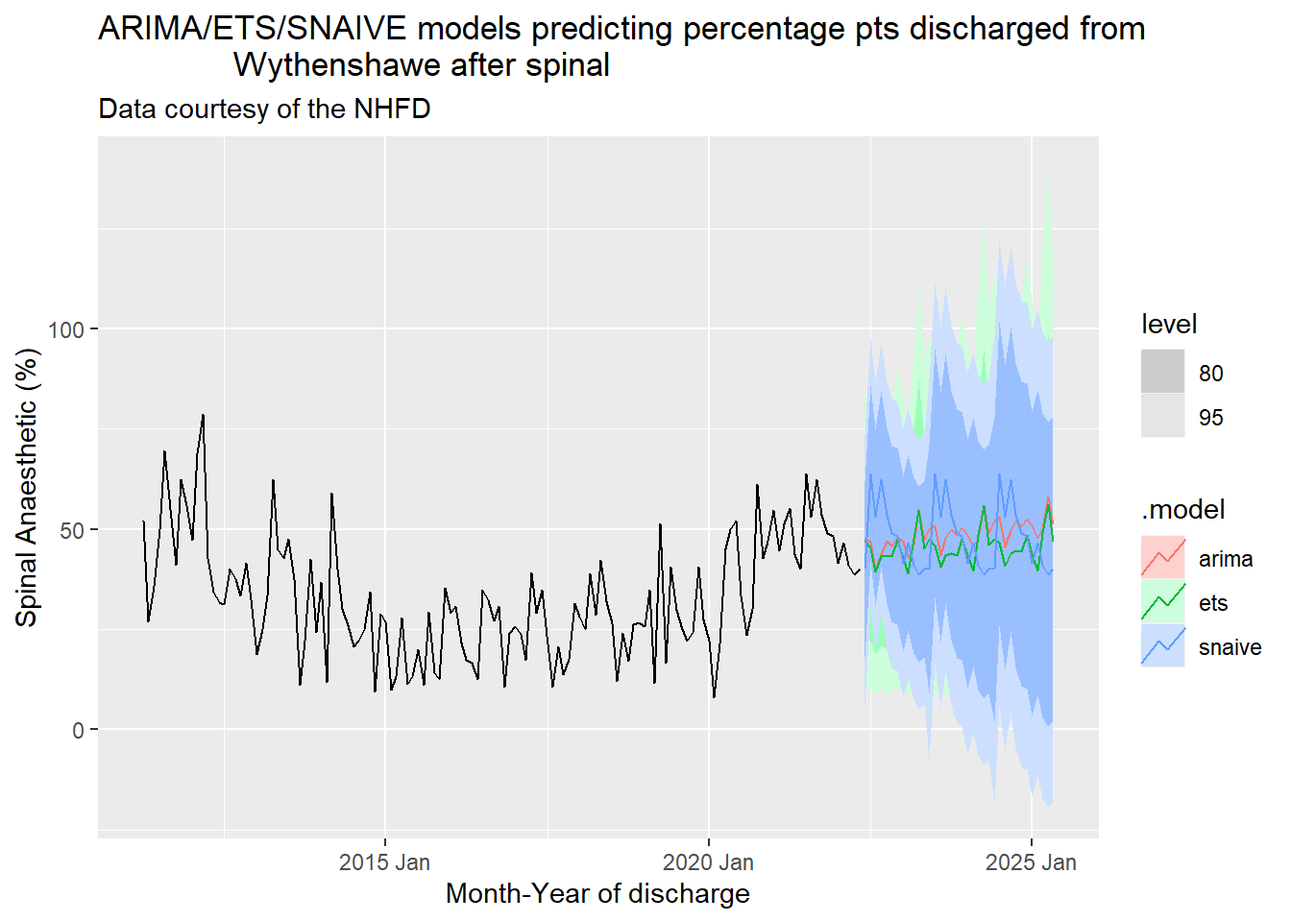
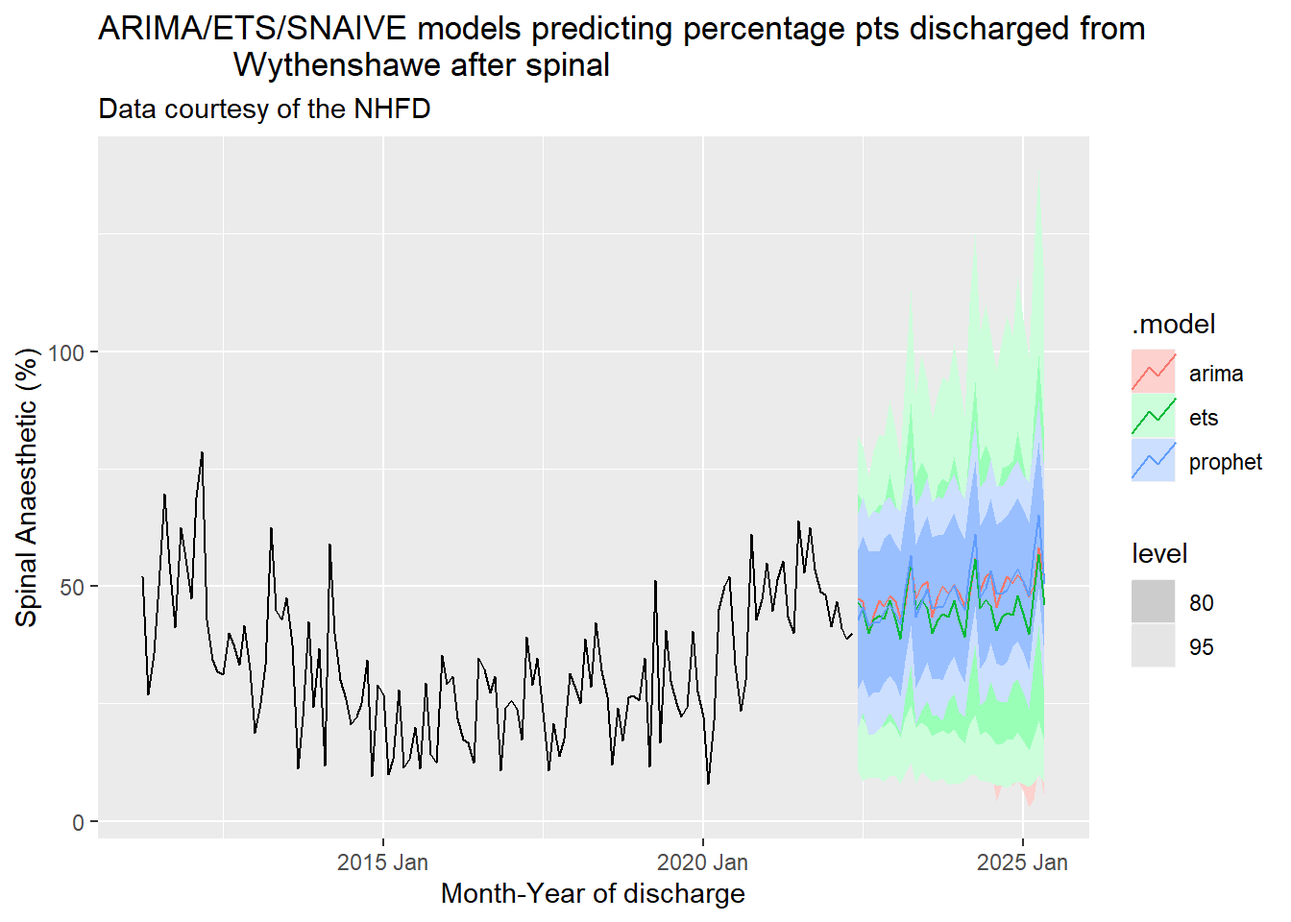
Removed seasonally naive (SNAIVE) model - because redundant - much better graphs now

diff --git a/docs/sap.html b/docs/sap.html
@@ -272,57 +272,58 @@ code span.wa { color: #60a0b0; font-weight: bold; font-style: italic; } /* Warni
 <span id="cb1-8"><a href="#cb1-8" aria-hidden="true" tabindex="-1"></a><span class="fu">library</span>(urca)</span>
 <span id="cb1-9"><a href="#cb1-9" aria-hidden="true" tabindex="-1"></a><span class="fu">library</span>(downloadthis)</span>
 <span id="cb1-10"><a href="#cb1-10" aria-hidden="true" tabindex="-1"></a><span class="fu">library</span>(fpp3)</span>
-<span id="cb1-11"><a href="#cb1-11" aria-hidden="true" tabindex="-1"></a>los <span class="ot">&lt;-</span> <span class="fu">read.csv</span>(<span class="st">"./NHFD_Data/los_apr_22.csv"</span>)</span>
-<span id="cb1-12"><a href="#cb1-12" aria-hidden="true" tabindex="-1"></a><span class="fu">names</span>(los) <span class="ot">&lt;-</span><span class="fu">c</span>(<span class="st">"my"</span>, <span class="st">"ptnum"</span>, </span>
-<span id="cb1-13"><a href="#cb1-13" aria-hidden="true" tabindex="-1"></a>               <span class="st">"acutelos"</span>, </span>
-<span id="cb1-14"><a href="#cb1-14" aria-hidden="true" tabindex="-1"></a>               <span class="st">"acutelosannual"</span>, </span>
-<span id="cb1-15"><a href="#cb1-15" aria-hidden="true" tabindex="-1"></a>               <span class="st">"trustlos"</span>, </span>
-<span id="cb1-16"><a href="#cb1-16" aria-hidden="true" tabindex="-1"></a>               <span class="st">"trustlosannual"</span> )</span>
-<span id="cb1-17"><a href="#cb1-17" aria-hidden="true" tabindex="-1"></a>vol <span class="ot">&lt;-</span> los <span class="sc">|&gt;</span> <span class="fu">select</span>(my, ptnum)</span>
-<span id="cb1-18"><a href="#cb1-18" aria-hidden="true" tabindex="-1"></a>vol<span class="sc">$</span>my <span class="ot">&lt;-</span> lubridate<span class="sc">::</span><span class="fu">my</span>(vol<span class="sc">$</span>my) </span>
-<span id="cb1-19"><a href="#cb1-19" aria-hidden="true" tabindex="-1"></a>ts_vol <span class="ot">&lt;-</span> vol <span class="sc">%&gt;%</span> </span>
-<span id="cb1-20"><a href="#cb1-20" aria-hidden="true" tabindex="-1"></a>  <span class="fu">mutate</span>(<span class="at">my =</span> tsibble<span class="sc">::</span><span class="fu">yearmonth</span>(my)) <span class="sc">%&gt;%</span> </span>
-<span id="cb1-21"><a href="#cb1-21" aria-hidden="true" tabindex="-1"></a>  <span class="fu">tsibble</span>()</span>
-<span id="cb1-22"><a href="#cb1-22" aria-hidden="true" tabindex="-1"></a></span>
-<span id="cb1-23"><a href="#cb1-23" aria-hidden="true" tabindex="-1"></a>p <span class="ot">&lt;-</span> vol <span class="sc">|&gt;</span> <span class="fu">ggplot</span>() <span class="sc">+</span> </span>
-<span id="cb1-24"><a href="#cb1-24" aria-hidden="true" tabindex="-1"></a>  <span class="fu">geom_line</span>(<span class="fu">aes</span>(<span class="at">x=</span>my, <span class="at">y=</span>ptnum)) <span class="sc">+</span></span>
-<span id="cb1-25"><a href="#cb1-25" aria-hidden="true" tabindex="-1"></a>  <span class="fu">scale_x_date</span>(<span class="at">date_labels =</span> <span class="st">"%m-%Y"</span>) <span class="sc">+</span></span>
-<span id="cb1-26"><a href="#cb1-26" aria-hidden="true" tabindex="-1"></a>  <span class="fu">labs</span>(<span class="at">x=</span><span class="st">"Month-Year of discharge"</span>, </span>
-<span id="cb1-27"><a href="#cb1-27" aria-hidden="true" tabindex="-1"></a>  <span class="at">y=</span><span class="st">"Number of patients"</span>,</span>
-<span id="cb1-28"><a href="#cb1-28" aria-hidden="true" tabindex="-1"></a>  <span class="at">title=</span><span class="st">"Patients presenting to Wythenshawe with #NOF"</span>, </span>
-<span id="cb1-29"><a href="#cb1-29" aria-hidden="true" tabindex="-1"></a>  <span class="at">subtitle =</span><span class="st">"Data courtesy of the NFHD"</span>)</span>
-<span id="cb1-30"><a href="#cb1-30" aria-hidden="true" tabindex="-1"></a>p</span>
-<span id="cb1-31"><a href="#cb1-31" aria-hidden="true" tabindex="-1"></a></span>
-<span id="cb1-32"><a href="#cb1-32" aria-hidden="true" tabindex="-1"></a>fable_1 <span class="ot">&lt;-</span> ts_vol <span class="sc">%&gt;%</span> </span>
-<span id="cb1-33"><a href="#cb1-33" aria-hidden="true" tabindex="-1"></a>  <span class="fu">model</span>(  </span>
-<span id="cb1-34"><a href="#cb1-34" aria-hidden="true" tabindex="-1"></a>    <span class="at">ets =</span> <span class="fu">ETS</span>(ptnum <span class="sc">~</span> <span class="fu">error</span>(<span class="st">"M"</span>) <span class="sc">+</span> <span class="fu">trend</span>(<span class="st">"M"</span>) <span class="sc">+</span> <span class="fu">season</span>(<span class="st">"M"</span>)),</span>
-<span id="cb1-35"><a href="#cb1-35" aria-hidden="true" tabindex="-1"></a>    <span class="at">arima =</span> <span class="fu">ARIMA</span>(ptnum <span class="sc">~</span> <span class="dv">0</span> <span class="sc">+</span> <span class="fu">pdq</span>(<span class="dv">1</span>, <span class="dv">1</span>, <span class="dv">1</span>) <span class="sc">+</span> <span class="fu">PDQ</span>(<span class="dv">1</span>, <span class="dv">1</span>, <span class="dv">1</span>)),</span>
-<span id="cb1-36"><a href="#cb1-36" aria-hidden="true" tabindex="-1"></a>    <span class="at">snaive =</span> <span class="fu">SNAIVE</span>(ptnum)</span>
-<span id="cb1-37"><a href="#cb1-37" aria-hidden="true" tabindex="-1"></a>  )</span>
-<span id="cb1-38"><a href="#cb1-38" aria-hidden="true" tabindex="-1"></a>forecast_1 <span class="ot">&lt;-</span> <span class="fu">forecast</span>(fable_1, </span>
-<span id="cb1-39"><a href="#cb1-39" aria-hidden="true" tabindex="-1"></a>                       <span class="at">h =</span> <span class="st">"3 years"</span>) </span>
-<span id="cb1-40"><a href="#cb1-40" aria-hidden="true" tabindex="-1"></a><span class="fu">autoplot</span>(forecast_1, </span>
-<span id="cb1-41"><a href="#cb1-41" aria-hidden="true" tabindex="-1"></a>         <span class="at">data=</span>vol, </span>
-<span id="cb1-42"><a href="#cb1-42" aria-hidden="true" tabindex="-1"></a>         <span class="at">level =</span> <span class="fu">c</span>(<span class="dv">80</span>, <span class="dv">95</span>)) <span class="sc">+</span></span>
-<span id="cb1-43"><a href="#cb1-43" aria-hidden="true" tabindex="-1"></a>  <span class="fu">labs</span>(<span class="at">x=</span><span class="st">"Month-Year of discharge"</span>,</span>
-<span id="cb1-44"><a href="#cb1-44" aria-hidden="true" tabindex="-1"></a>  <span class="at">title=</span><span class="st">"ARIMA/ETS/SNAIVE models predicting pts presenting to  </span></span>
-<span id="cb1-45"><a href="#cb1-45" aria-hidden="true" tabindex="-1"></a><span class="st">  Wythenshawe with #NOF"</span>,</span>
-<span id="cb1-46"><a href="#cb1-46" aria-hidden="true" tabindex="-1"></a>  <span class="at">subtitle =</span> <span class="st">"Data courtesy of the NHFD"</span>,</span>
-<span id="cb1-47"><a href="#cb1-47" aria-hidden="true" tabindex="-1"></a>  <span class="at">y=</span><span class="st">"Number of patients"</span>)</span>
-<span id="cb1-48"><a href="#cb1-48" aria-hidden="true" tabindex="-1"></a></span>
-<span id="cb1-49"><a href="#cb1-49" aria-hidden="true" tabindex="-1"></a>arima_means <span class="ot">&lt;-</span> forecast_1 <span class="sc">%&gt;%</span></span>
-<span id="cb1-50"><a href="#cb1-50" aria-hidden="true" tabindex="-1"></a>  <span class="fu">filter</span>(.model<span class="sc">==</span><span class="st">'arima'</span>)</span>
-<span id="cb1-51"><a href="#cb1-51" aria-hidden="true" tabindex="-1"></a>arima_mean <span class="ot">&lt;-</span> <span class="fu">mean</span>(arima_means<span class="sc">$</span>.mean)</span>
-<span id="cb1-52"><a href="#cb1-52" aria-hidden="true" tabindex="-1"></a>ets_means <span class="ot">&lt;-</span> forecast_1 <span class="sc">%&gt;%</span> </span>
-<span id="cb1-53"><a href="#cb1-53" aria-hidden="true" tabindex="-1"></a>  <span class="fu">filter</span>(.model<span class="sc">==</span><span class="st">'ets'</span>)</span>
-<span id="cb1-54"><a href="#cb1-54" aria-hidden="true" tabindex="-1"></a>ets_mean <span class="ot">&lt;-</span> <span class="fu">mean</span>(ets_means<span class="sc">$</span>.mean)</span>
-<span id="cb1-55"><a href="#cb1-55" aria-hidden="true" tabindex="-1"></a>snaive_means <span class="ot">&lt;-</span> forecast_1 <span class="sc">%&gt;%</span> </span>
-<span id="cb1-56"><a href="#cb1-56" aria-hidden="true" tabindex="-1"></a>  <span class="fu">filter</span>(.model<span class="sc">==</span><span class="st">'snaive'</span>)</span>
-<span id="cb1-57"><a href="#cb1-57" aria-hidden="true" tabindex="-1"></a>snaive_mean <span class="ot">&lt;-</span> <span class="fu">mean</span>(snaive_means<span class="sc">$</span>.mean)</span>
-<span id="cb1-58"><a href="#cb1-58" aria-hidden="true" tabindex="-1"></a>print_mean <span class="ot">&lt;-</span> <span class="fu">mean</span>(<span class="fu">c</span>(snaive_mean, </span>
-<span id="cb1-59"><a href="#cb1-59" aria-hidden="true" tabindex="-1"></a>                     ets_mean, </span>
-<span id="cb1-60"><a href="#cb1-60" aria-hidden="true" tabindex="-1"></a>                     arima_mean)) <span class="sc">|&gt;</span> </span>
-<span id="cb1-61"><a href="#cb1-61" aria-hidden="true" tabindex="-1"></a>  <span class="fu">round</span>(<span class="dv">2</span>)</span></code><button title="Copy to Clipboard" class="code-copy-button"><i class="bi"></i></button></pre></div>
+<span id="cb1-11"><a href="#cb1-11" aria-hidden="true" tabindex="-1"></a><span class="fu">library</span>(fable.prophet)</span>
+<span id="cb1-12"><a href="#cb1-12" aria-hidden="true" tabindex="-1"></a>los <span class="ot">&lt;-</span> <span class="fu">read.csv</span>(<span class="st">"./NHFD_Data/los_apr_22.csv"</span>)</span>
+<span id="cb1-13"><a href="#cb1-13" aria-hidden="true" tabindex="-1"></a><span class="fu">names</span>(los) <span class="ot">&lt;-</span><span class="fu">c</span>(<span class="st">"my"</span>, <span class="st">"ptnum"</span>, </span>
+<span id="cb1-14"><a href="#cb1-14" aria-hidden="true" tabindex="-1"></a>               <span class="st">"acutelos"</span>, </span>
+<span id="cb1-15"><a href="#cb1-15" aria-hidden="true" tabindex="-1"></a>               <span class="st">"acutelosannual"</span>, </span>
+<span id="cb1-16"><a href="#cb1-16" aria-hidden="true" tabindex="-1"></a>               <span class="st">"trustlos"</span>, </span>
+<span id="cb1-17"><a href="#cb1-17" aria-hidden="true" tabindex="-1"></a>               <span class="st">"trustlosannual"</span> )</span>
+<span id="cb1-18"><a href="#cb1-18" aria-hidden="true" tabindex="-1"></a>vol <span class="ot">&lt;-</span> los <span class="sc">|&gt;</span> <span class="fu">select</span>(my, ptnum)</span>
+<span id="cb1-19"><a href="#cb1-19" aria-hidden="true" tabindex="-1"></a>vol<span class="sc">$</span>my <span class="ot">&lt;-</span> lubridate<span class="sc">::</span><span class="fu">my</span>(vol<span class="sc">$</span>my) </span>
+<span id="cb1-20"><a href="#cb1-20" aria-hidden="true" tabindex="-1"></a>ts_vol <span class="ot">&lt;-</span> vol <span class="sc">%&gt;%</span> </span>
+<span id="cb1-21"><a href="#cb1-21" aria-hidden="true" tabindex="-1"></a>  <span class="fu">mutate</span>(<span class="at">my =</span> tsibble<span class="sc">::</span><span class="fu">yearmonth</span>(my)) <span class="sc">%&gt;%</span> </span>
+<span id="cb1-22"><a href="#cb1-22" aria-hidden="true" tabindex="-1"></a>  <span class="fu">tsibble</span>()</span>
+<span id="cb1-23"><a href="#cb1-23" aria-hidden="true" tabindex="-1"></a></span>
+<span id="cb1-24"><a href="#cb1-24" aria-hidden="true" tabindex="-1"></a>p <span class="ot">&lt;-</span> vol <span class="sc">|&gt;</span> <span class="fu">ggplot</span>() <span class="sc">+</span> </span>
+<span id="cb1-25"><a href="#cb1-25" aria-hidden="true" tabindex="-1"></a>  <span class="fu">geom_line</span>(<span class="fu">aes</span>(<span class="at">x=</span>my, <span class="at">y=</span>ptnum)) <span class="sc">+</span></span>
+<span id="cb1-26"><a href="#cb1-26" aria-hidden="true" tabindex="-1"></a>  <span class="fu">scale_x_date</span>(<span class="at">date_labels =</span> <span class="st">"%m-%Y"</span>) <span class="sc">+</span></span>
+<span id="cb1-27"><a href="#cb1-27" aria-hidden="true" tabindex="-1"></a>  <span class="fu">labs</span>(<span class="at">x=</span><span class="st">"Month-Year of discharge"</span>, </span>
+<span id="cb1-28"><a href="#cb1-28" aria-hidden="true" tabindex="-1"></a>  <span class="at">y=</span><span class="st">"Number of patients"</span>,</span>
+<span id="cb1-29"><a href="#cb1-29" aria-hidden="true" tabindex="-1"></a>  <span class="at">title=</span><span class="st">"Patients presenting to Wythenshawe with #NOF"</span>, </span>
+<span id="cb1-30"><a href="#cb1-30" aria-hidden="true" tabindex="-1"></a>  <span class="at">subtitle =</span><span class="st">"Data courtesy of the NFHD"</span>)</span>
+<span id="cb1-31"><a href="#cb1-31" aria-hidden="true" tabindex="-1"></a>p</span>
+<span id="cb1-32"><a href="#cb1-32" aria-hidden="true" tabindex="-1"></a></span>
+<span id="cb1-33"><a href="#cb1-33" aria-hidden="true" tabindex="-1"></a>fable_1 <span class="ot">&lt;-</span> ts_vol <span class="sc">%&gt;%</span> </span>
+<span id="cb1-34"><a href="#cb1-34" aria-hidden="true" tabindex="-1"></a>  <span class="fu">model</span>(  </span>
+<span id="cb1-35"><a href="#cb1-35" aria-hidden="true" tabindex="-1"></a>    <span class="at">ets =</span> <span class="fu">ETS</span>(ptnum <span class="sc">~</span> <span class="fu">error</span>(<span class="st">"M"</span>) <span class="sc">+</span> <span class="fu">trend</span>(<span class="st">"M"</span>) <span class="sc">+</span> <span class="fu">season</span>(<span class="st">"M"</span>)),</span>
+<span id="cb1-36"><a href="#cb1-36" aria-hidden="true" tabindex="-1"></a>    <span class="at">arima =</span> <span class="fu">ARIMA</span>(ptnum <span class="sc">~</span> <span class="dv">0</span> <span class="sc">+</span> <span class="fu">pdq</span>(<span class="dv">1</span>, <span class="dv">1</span>, <span class="dv">1</span>) <span class="sc">+</span> <span class="fu">PDQ</span>(<span class="dv">1</span>, <span class="dv">1</span>, <span class="dv">1</span>)),</span>
+<span id="cb1-37"><a href="#cb1-37" aria-hidden="true" tabindex="-1"></a>    <span class="at">prophet =</span> <span class="fu">prophet</span>(ptnum <span class="sc">~</span> <span class="fu">growth</span>(<span class="st">"linear"</span>) <span class="sc">+</span> <span class="fu">season</span>(<span class="st">"year"</span>, <span class="at">type =</span> <span class="st">"multiplicative"</span>))</span>
+<span id="cb1-38"><a href="#cb1-38" aria-hidden="true" tabindex="-1"></a>  )</span>
+<span id="cb1-39"><a href="#cb1-39" aria-hidden="true" tabindex="-1"></a>forecast_1 <span class="ot">&lt;-</span> <span class="fu">forecast</span>(fable_1, </span>
+<span id="cb1-40"><a href="#cb1-40" aria-hidden="true" tabindex="-1"></a>                       <span class="at">h =</span> <span class="st">"3 years"</span>) </span>
+<span id="cb1-41"><a href="#cb1-41" aria-hidden="true" tabindex="-1"></a><span class="fu">autoplot</span>(forecast_1, </span>
+<span id="cb1-42"><a href="#cb1-42" aria-hidden="true" tabindex="-1"></a>         <span class="at">data=</span>vol, </span>
+<span id="cb1-43"><a href="#cb1-43" aria-hidden="true" tabindex="-1"></a>         <span class="at">level =</span> <span class="fu">c</span>(<span class="dv">80</span>, <span class="dv">95</span>)) <span class="sc">+</span></span>
+<span id="cb1-44"><a href="#cb1-44" aria-hidden="true" tabindex="-1"></a>  <span class="fu">labs</span>(<span class="at">x=</span><span class="st">"Month-Year of discharge"</span>,</span>
+<span id="cb1-45"><a href="#cb1-45" aria-hidden="true" tabindex="-1"></a>  <span class="at">title=</span><span class="st">"ARIMA/ETS/SNAIVE models predicting pts presenting to  </span></span>
+<span id="cb1-46"><a href="#cb1-46" aria-hidden="true" tabindex="-1"></a><span class="st">  Wythenshawe with #NOF"</span>,</span>
+<span id="cb1-47"><a href="#cb1-47" aria-hidden="true" tabindex="-1"></a>  <span class="at">subtitle =</span> <span class="st">"Data courtesy of the NHFD"</span>,</span>
+<span id="cb1-48"><a href="#cb1-48" aria-hidden="true" tabindex="-1"></a>  <span class="at">y=</span><span class="st">"Number of patients"</span>)</span>
+<span id="cb1-49"><a href="#cb1-49" aria-hidden="true" tabindex="-1"></a></span>
+<span id="cb1-50"><a href="#cb1-50" aria-hidden="true" tabindex="-1"></a>arima_means <span class="ot">&lt;-</span> forecast_1 <span class="sc">%&gt;%</span></span>
+<span id="cb1-51"><a href="#cb1-51" aria-hidden="true" tabindex="-1"></a>  <span class="fu">filter</span>(.model<span class="sc">==</span><span class="st">'arima'</span>)</span>
+<span id="cb1-52"><a href="#cb1-52" aria-hidden="true" tabindex="-1"></a>arima_mean <span class="ot">&lt;-</span> <span class="fu">mean</span>(arima_means<span class="sc">$</span>.mean)</span>
+<span id="cb1-53"><a href="#cb1-53" aria-hidden="true" tabindex="-1"></a>ets_means <span class="ot">&lt;-</span> forecast_1 <span class="sc">%&gt;%</span> </span>
+<span id="cb1-54"><a href="#cb1-54" aria-hidden="true" tabindex="-1"></a>  <span class="fu">filter</span>(.model<span class="sc">==</span><span class="st">'ets'</span>)</span>
+<span id="cb1-55"><a href="#cb1-55" aria-hidden="true" tabindex="-1"></a>ets_mean <span class="ot">&lt;-</span> <span class="fu">mean</span>(ets_means<span class="sc">$</span>.mean)</span>
+<span id="cb1-56"><a href="#cb1-56" aria-hidden="true" tabindex="-1"></a>prophet_means <span class="ot">&lt;-</span> forecast_1 <span class="sc">%&gt;%</span> </span>
+<span id="cb1-57"><a href="#cb1-57" aria-hidden="true" tabindex="-1"></a>  <span class="fu">filter</span>(.model<span class="sc">==</span><span class="st">'prophet'</span>)</span>
+<span id="cb1-58"><a href="#cb1-58" aria-hidden="true" tabindex="-1"></a>prophet_mean <span class="ot">&lt;-</span> <span class="fu">mean</span>(prophet_means<span class="sc">$</span>.mean)</span>
+<span id="cb1-59"><a href="#cb1-59" aria-hidden="true" tabindex="-1"></a>print_mean <span class="ot">&lt;-</span> <span class="fu">mean</span>(<span class="fu">c</span>(ets_mean, </span>
+<span id="cb1-60"><a href="#cb1-60" aria-hidden="true" tabindex="-1"></a>                     arima_mean,</span>
+<span id="cb1-61"><a href="#cb1-61" aria-hidden="true" tabindex="-1"></a>                     prophet_mean)) <span class="sc">|&gt;</span> </span>
+<span id="cb1-62"><a href="#cb1-62" aria-hidden="true" tabindex="-1"></a>  <span class="fu">round</span>(<span class="dv">2</span>)</span></code><button title="Copy to Clipboard" class="code-copy-button"><i class="bi"></i></button></pre></div>
 </details>
 <div class="cell column-screen-inset-shaded quarto-layout-panel">
 <div class="quarto-layout-row quarto-layout-valign-top">
@@ -350,7 +351,8 @@ code span.wa { color: #60a0b0; font-weight: bold; font-style: italic; } /* Warni
 </a>
 </div>
 </div>
-<p>We conducted a time series forecast (ARIMA, ETS and Naive (SNAIVE)) based on discharges from Wythenshawe over the period 2011 - 2022. This suggests an expected mean number of presentations per month (simple average of 3 model estimates) of 41.29. At this rate, we would expect ~41.29 x 24 = 990.96 patients to have surgical repair of fractured neck of femur over the 24 month recruitment course of the trial.</p>
+<p>We conducted a number of time series forecasts using Autogregressive (ARIMA), exponential state-space smoothing (ETS) and Facebook’s “Prophet” model (Prophet). Final expected values were based on simple unweighted averages of the 3 estimates. 80% and 95% confidence intervals for each prediction are shown in the relevant plot.</p>
+<p>Forecasts based on discharges from Wythenshawe over the period 2011 - 2022. This suggests an expected mean number of presentations per month of 41.09. At this rate, we would expect ~41.09 x 24 = 986.16 patients to have surgical repair of fractured neck of femur over the 24 month recruitment course of the trial.</p>
 </section>
 <section id="length-of-stay" class="level3 page-columns page-full">
 <h3 class="anchored" data-anchor-id="length-of-stay">Length of stay</h3>
@@ -373,7 +375,7 @@ code span.wa { color: #60a0b0; font-weight: bold; font-style: italic; } /* Warni
 <span id="cb2-14"><a href="#cb2-14" aria-hidden="true" tabindex="-1"></a>fable_2 <span class="ot">&lt;-</span> ts_acute_los <span class="sc">%&gt;%</span> <span class="fu">model</span>(  </span>
 <span id="cb2-15"><a href="#cb2-15" aria-hidden="true" tabindex="-1"></a>  <span class="at">ets =</span> <span class="fu">ETS</span>(acutelos <span class="sc">~</span>  <span class="fu">error</span>(<span class="st">"M"</span>) <span class="sc">+</span> <span class="fu">trend</span>(<span class="st">"M"</span>) <span class="sc">+</span> <span class="fu">season</span>(<span class="st">"M"</span>)),</span>
 <span id="cb2-16"><a href="#cb2-16" aria-hidden="true" tabindex="-1"></a>  <span class="at">arima =</span> <span class="fu">ARIMA</span>(acutelos <span class="sc">~</span> <span class="dv">0</span> <span class="sc">+</span> <span class="fu">pdq</span>(<span class="dv">1</span>, <span class="dv">1</span>, <span class="dv">1</span>) <span class="sc">+</span> <span class="fu">PDQ</span>(<span class="dv">1</span>, <span class="dv">1</span>, <span class="dv">1</span>)),</span>
-<span id="cb2-17"><a href="#cb2-17" aria-hidden="true" tabindex="-1"></a>  <span class="at">snaive =</span> <span class="fu">SNAIVE</span>(acutelos)</span>
+<span id="cb2-17"><a href="#cb2-17" aria-hidden="true" tabindex="-1"></a>  <span class="at">prophet =</span> <span class="fu">prophet</span>(acutelos <span class="sc">~</span> <span class="fu">growth</span>(<span class="st">"linear"</span>) <span class="sc">+</span> <span class="fu">season</span>(<span class="st">"year"</span>, <span class="at">type =</span> <span class="st">"multiplicative"</span>))</span>
 <span id="cb2-18"><a href="#cb2-18" aria-hidden="true" tabindex="-1"></a>)</span>
 <span id="cb2-19"><a href="#cb2-19" aria-hidden="true" tabindex="-1"></a>forecast_2 <span class="ot">&lt;-</span> <span class="fu">forecast</span>(fable_2, <span class="at">h =</span> <span class="st">"3 years"</span>)</span>
 <span id="cb2-20"><a href="#cb2-20" aria-hidden="true" tabindex="-1"></a><span class="fu">autoplot</span>(forecast_2, <span class="at">data=</span>acute_los, <span class="at">level=</span><span class="fu">c</span>(<span class="dv">80</span>,<span class="dv">95</span>)) <span class="sc">+</span></span>
@@ -383,13 +385,18 @@ code span.wa { color: #60a0b0; font-weight: bold; font-style: italic; } /* Warni
 <span id="cb2-24"><a href="#cb2-24" aria-hidden="true" tabindex="-1"></a>       <span class="at">subtitle =</span> <span class="st">"Data courtesy of the NHFD"</span>,</span>
 <span id="cb2-25"><a href="#cb2-25" aria-hidden="true" tabindex="-1"></a>       <span class="at">y=</span><span class="st">"Number of patients"</span>)</span>
 <span id="cb2-26"><a href="#cb2-26" aria-hidden="true" tabindex="-1"></a></span>
-<span id="cb2-27"><a href="#cb2-27" aria-hidden="true" tabindex="-1"></a>arima_means <span class="ot">&lt;-</span> forecast_2 <span class="sc">%&gt;%</span> <span class="fu">filter</span>(.model<span class="sc">==</span><span class="st">'arima'</span>)</span>
-<span id="cb2-28"><a href="#cb2-28" aria-hidden="true" tabindex="-1"></a>arima_mean <span class="ot">&lt;-</span> <span class="fu">mean</span>(arima_means<span class="sc">$</span>.mean)</span>
-<span id="cb2-29"><a href="#cb2-29" aria-hidden="true" tabindex="-1"></a>ets_means <span class="ot">&lt;-</span> forecast_2 <span class="sc">%&gt;%</span> <span class="fu">filter</span>(.model<span class="sc">==</span><span class="st">'ets'</span>)</span>
-<span id="cb2-30"><a href="#cb2-30" aria-hidden="true" tabindex="-1"></a>ets_mean <span class="ot">&lt;-</span> <span class="fu">mean</span>(ets_means<span class="sc">$</span>.mean)</span>
-<span id="cb2-31"><a href="#cb2-31" aria-hidden="true" tabindex="-1"></a>snaive_means <span class="ot">&lt;-</span> forecast_2 <span class="sc">%&gt;%</span> <span class="fu">filter</span>(.model<span class="sc">==</span><span class="st">'snaive'</span>)</span>
-<span id="cb2-32"><a href="#cb2-32" aria-hidden="true" tabindex="-1"></a>snaive_mean <span class="ot">&lt;-</span> <span class="fu">mean</span>(snaive_means<span class="sc">$</span>.mean)</span>
-<span id="cb2-33"><a href="#cb2-33" aria-hidden="true" tabindex="-1"></a>print_mean_2 <span class="ot">&lt;-</span> <span class="fu">mean</span>(<span class="fu">c</span>(snaive_mean, ets_mean, arima_mean)) <span class="sc">|&gt;</span> <span class="fu">round</span>(<span class="dv">2</span>)</span></code><button title="Copy to Clipboard" class="code-copy-button"><i class="bi"></i></button></pre></div>
+<span id="cb2-27"><a href="#cb2-27" aria-hidden="true" tabindex="-1"></a>arima_means <span class="ot">&lt;-</span> forecast_2 <span class="sc">%&gt;%</span> </span>
+<span id="cb2-28"><a href="#cb2-28" aria-hidden="true" tabindex="-1"></a>  <span class="fu">filter</span>(.model<span class="sc">==</span><span class="st">'arima'</span>)</span>
+<span id="cb2-29"><a href="#cb2-29" aria-hidden="true" tabindex="-1"></a>arima_mean <span class="ot">&lt;-</span> <span class="fu">mean</span>(arima_means<span class="sc">$</span>.mean)</span>
+<span id="cb2-30"><a href="#cb2-30" aria-hidden="true" tabindex="-1"></a>ets_means <span class="ot">&lt;-</span> forecast_2 <span class="sc">%&gt;%</span> </span>
+<span id="cb2-31"><a href="#cb2-31" aria-hidden="true" tabindex="-1"></a>  <span class="fu">filter</span>(.model<span class="sc">==</span><span class="st">'ets'</span>)</span>
+<span id="cb2-32"><a href="#cb2-32" aria-hidden="true" tabindex="-1"></a>ets_mean <span class="ot">&lt;-</span> <span class="fu">mean</span>(ets_means<span class="sc">$</span>.mean)</span>
+<span id="cb2-33"><a href="#cb2-33" aria-hidden="true" tabindex="-1"></a>prophet_means <span class="ot">&lt;-</span> forecast_2 <span class="sc">%&gt;%</span> </span>
+<span id="cb2-34"><a href="#cb2-34" aria-hidden="true" tabindex="-1"></a>  <span class="fu">filter</span>(.model<span class="sc">==</span><span class="st">'prophet'</span>)</span>
+<span id="cb2-35"><a href="#cb2-35" aria-hidden="true" tabindex="-1"></a>prophet_mean <span class="ot">&lt;-</span> <span class="fu">mean</span>(prophet_means<span class="sc">$</span>.mean)</span>
+<span id="cb2-36"><a href="#cb2-36" aria-hidden="true" tabindex="-1"></a>print_mean_2 <span class="ot">&lt;-</span> <span class="fu">mean</span>(<span class="fu">c</span>(ets_mean, </span>
+<span id="cb2-37"><a href="#cb2-37" aria-hidden="true" tabindex="-1"></a>                       arima_mean,</span>
+<span id="cb2-38"><a href="#cb2-38" aria-hidden="true" tabindex="-1"></a>                       prophet_mean)) <span class="sc">|&gt;</span> <span class="fu">round</span>(<span class="dv">2</span>)</span></code><button title="Copy to Clipboard" class="code-copy-button"><i class="bi"></i></button></pre></div>
 </details>
 <div class="cell column-screen-inset-shaded quarto-layout-panel">
 <div class="quarto-layout-row quarto-layout-valign-top">
@@ -402,7 +409,7 @@ code span.wa { color: #60a0b0; font-weight: bold; font-style: italic; } /* Warni
 </div>
 </div>
 </div>
-<p>We conducted a further time series forecast (ARIMA, ETS and Naive (SNAIVE)) based on discharges from Wythenshawe over the period 2011 - 2022. This suggests an expected mean length of stay per patient (simple average of 3 model estimates of LOS in days) of 9.98. This means that while it is unlikely for patients to be in hospital longer than 2 weeks, we will have adequate time to give Anakinra for up to 72 hours post treatment, even if surgery is delayed.</p>
+<p>Forecast modelling of length of stay (LOS) suggests an expected mean length of stay per patient of 8.65. This means that while it is unlikely for patients to be in hospital longer than 2 weeks, we will have adequate time to give Anakinra for up to 72 hours post treatment, even if surgery is delayed.</p>
 </section>
 <section id="general-anaesthetic" class="level3 page-columns page-full">
 <h3 class="anchored" data-anchor-id="general-anaesthetic">General Anaesthetic</h3>
@@ -433,7 +440,7 @@ code span.wa { color: #60a0b0; font-weight: bold; font-style: italic; } /* Warni
 <span id="cb3-22"><a href="#cb3-22" aria-hidden="true" tabindex="-1"></a>fable_3 <span class="ot">&lt;-</span> ts_ana <span class="sc">%&gt;%</span> <span class="fu">model</span>(  </span>
 <span id="cb3-23"><a href="#cb3-23" aria-hidden="true" tabindex="-1"></a>  <span class="at">ets =</span> <span class="fu">ETS</span>(ga <span class="sc">~</span> <span class="fu">error</span>(<span class="st">"M"</span>) <span class="sc">+</span> <span class="fu">trend</span>(<span class="st">"M"</span>) <span class="sc">+</span> <span class="fu">season</span>(<span class="st">"M"</span>)),</span>
 <span id="cb3-24"><a href="#cb3-24" aria-hidden="true" tabindex="-1"></a>  <span class="at">arima =</span> <span class="fu">ARIMA</span>(ga <span class="sc">~</span> <span class="dv">0</span> <span class="sc">+</span> <span class="fu">pdq</span>(<span class="dv">1</span>, <span class="dv">1</span>, <span class="dv">1</span>) <span class="sc">+</span> <span class="fu">PDQ</span>(<span class="dv">1</span>, <span class="dv">1</span>, <span class="dv">1</span>)),</span>
-<span id="cb3-25"><a href="#cb3-25" aria-hidden="true" tabindex="-1"></a>  <span class="at">snaive =</span> <span class="fu">SNAIVE</span>(ga)</span>
+<span id="cb3-25"><a href="#cb3-25" aria-hidden="true" tabindex="-1"></a>  <span class="at">prophet =</span> <span class="fu">prophet</span>(ga <span class="sc">~</span> <span class="fu">growth</span>(<span class="st">"linear"</span>) <span class="sc">+</span> <span class="fu">season</span>(<span class="st">"year"</span>, <span class="at">type =</span> <span class="st">"multiplicative"</span>))</span>
 <span id="cb3-26"><a href="#cb3-26" aria-hidden="true" tabindex="-1"></a>)</span>
 <span id="cb3-27"><a href="#cb3-27" aria-hidden="true" tabindex="-1"></a>forecast_3 <span class="ot">&lt;-</span> <span class="fu">forecast</span>(fable_3, <span class="at">h =</span> <span class="st">"3 years"</span>)</span>
 <span id="cb3-28"><a href="#cb3-28" aria-hidden="true" tabindex="-1"></a><span class="fu">autoplot</span>(forecast_3, <span class="at">data=</span>ana, <span class="at">level=</span><span class="fu">c</span>(<span class="dv">80</span>,<span class="dv">95</span>)) <span class="sc">+</span></span>
@@ -447,9 +454,13 @@ code span.wa { color: #60a0b0; font-weight: bold; font-style: italic; } /* Warni
 <span id="cb3-36"><a href="#cb3-36" aria-hidden="true" tabindex="-1"></a>arima_mean <span class="ot">&lt;-</span> <span class="fu">mean</span>(arima_means<span class="sc">$</span>.mean)</span>
 <span id="cb3-37"><a href="#cb3-37" aria-hidden="true" tabindex="-1"></a>ets_means <span class="ot">&lt;-</span> forecast_3 <span class="sc">%&gt;%</span> <span class="fu">filter</span>(.model<span class="sc">==</span><span class="st">'ets'</span>)</span>
 <span id="cb3-38"><a href="#cb3-38" aria-hidden="true" tabindex="-1"></a>ets_mean <span class="ot">&lt;-</span> <span class="fu">mean</span>(ets_means<span class="sc">$</span>.mean)</span>
-<span id="cb3-39"><a href="#cb3-39" aria-hidden="true" tabindex="-1"></a>snaive_means <span class="ot">&lt;-</span> forecast_3 <span class="sc">%&gt;%</span> <span class="fu">filter</span>(.model<span class="sc">==</span><span class="st">'snaive'</span>)</span>
-<span id="cb3-40"><a href="#cb3-40" aria-hidden="true" tabindex="-1"></a>snaive_mean <span class="ot">&lt;-</span> <span class="fu">mean</span>(snaive_means<span class="sc">$</span>.mean)</span>
-<span id="cb3-41"><a href="#cb3-41" aria-hidden="true" tabindex="-1"></a>print_mean_3 <span class="ot">&lt;-</span> <span class="fu">mean</span>(<span class="fu">c</span>(snaive_mean, ets_mean, arima_mean)) <span class="sc">|&gt;</span> <span class="fu">round</span>(<span class="dv">2</span>)</span></code><button title="Copy to Clipboard" class="code-copy-button"><i class="bi"></i></button></pre></div>
+<span id="cb3-39"><a href="#cb3-39" aria-hidden="true" tabindex="-1"></a>prophet_means <span class="ot">&lt;-</span> forecast_3 <span class="sc">%&gt;%</span> </span>
+<span id="cb3-40"><a href="#cb3-40" aria-hidden="true" tabindex="-1"></a>  <span class="fu">filter</span>(.model<span class="sc">==</span><span class="st">'prophet'</span>)</span>
+<span id="cb3-41"><a href="#cb3-41" aria-hidden="true" tabindex="-1"></a>prophet_mean <span class="ot">&lt;-</span> <span class="fu">mean</span>(prophet_means<span class="sc">$</span>.mean)</span>
+<span id="cb3-42"><a href="#cb3-42" aria-hidden="true" tabindex="-1"></a>print_mean_3 <span class="ot">&lt;-</span> <span class="fu">mean</span>(<span class="fu">c</span>(ets_mean, </span>
+<span id="cb3-43"><a href="#cb3-43" aria-hidden="true" tabindex="-1"></a>                       arima_mean,</span>
+<span id="cb3-44"><a href="#cb3-44" aria-hidden="true" tabindex="-1"></a>                       prophet_mean)) <span class="sc">|&gt;</span> </span>
+<span id="cb3-45"><a href="#cb3-45" aria-hidden="true" tabindex="-1"></a>  <span class="fu">round</span>(<span class="dv">2</span>)</span></code><button title="Copy to Clipboard" class="code-copy-button"><i class="bi"></i></button></pre></div>
 </details>
 <div class="cell column-screen-inset-shaded quarto-layout-panel">
 <div class="quarto-layout-row quarto-layout-valign-top">
@@ -477,7 +488,7 @@ code span.wa { color: #60a0b0; font-weight: bold; font-style: italic; } /* Warni
 </a>
 </div>
 </div>
-<p>A forecast based on the percentage of patients discharged from Wythenshawe who had a General Anaesthetic over the period 2011 - 2022. This suggests an expected mean percentage GA recipients (simple average of 3 model estimates of %GA) of 52.01%.</p>
+<p>A forecast based on the percentage of patients discharged from Wythenshawe who had a General Anaesthetic over the period 2011 - 2022. This suggests an expected mean percentage GA recipients (simple average of 3 model estimates of %GA) of 50.82%.</p>
 </section>
 <section id="spinal-anaesthetic" class="level3 page-columns page-full">
 <h3 class="anchored" data-anchor-id="spinal-anaesthetic">Spinal Anaesthetic</h3>
@@ -508,7 +519,7 @@ code span.wa { color: #60a0b0; font-weight: bold; font-style: italic; } /* Warni
 <span id="cb4-22"><a href="#cb4-22" aria-hidden="true" tabindex="-1"></a>fable_4 <span class="ot">&lt;-</span> ts_spinal<span class="sc">%&gt;%</span> <span class="fu">model</span>(  </span>
 <span id="cb4-23"><a href="#cb4-23" aria-hidden="true" tabindex="-1"></a>  <span class="at">ets =</span> <span class="fu">ETS</span>(spinal <span class="sc">~</span> <span class="fu">error</span>(<span class="st">"M"</span>) <span class="sc">+</span> <span class="fu">trend</span>(<span class="st">"M"</span>) <span class="sc">+</span> <span class="fu">season</span>(<span class="st">"M"</span>)),</span>
 <span id="cb4-24"><a href="#cb4-24" aria-hidden="true" tabindex="-1"></a>  <span class="at">arima =</span> <span class="fu">ARIMA</span>(spinal <span class="sc">~</span> <span class="dv">0</span> <span class="sc">+</span> <span class="fu">pdq</span>(<span class="dv">1</span>, <span class="dv">1</span>, <span class="dv">1</span>) <span class="sc">+</span> <span class="fu">PDQ</span>(<span class="dv">1</span>, <span class="dv">1</span>, <span class="dv">1</span>)),</span>
-<span id="cb4-25"><a href="#cb4-25" aria-hidden="true" tabindex="-1"></a>  <span class="at">snaive =</span> <span class="fu">SNAIVE</span>(spinal)</span>
+<span id="cb4-25"><a href="#cb4-25" aria-hidden="true" tabindex="-1"></a>  <span class="at">prophet =</span> <span class="fu">prophet</span>(spinal <span class="sc">~</span> <span class="fu">growth</span>(<span class="st">"linear"</span>) <span class="sc">+</span> <span class="fu">season</span>(<span class="st">"year"</span>, <span class="at">type =</span> <span class="st">"multiplicative"</span>))</span>
 <span id="cb4-26"><a href="#cb4-26" aria-hidden="true" tabindex="-1"></a>)</span>
 <span id="cb4-27"><a href="#cb4-27" aria-hidden="true" tabindex="-1"></a>forecast_4 <span class="ot">&lt;-</span> <span class="fu">forecast</span>(fable_4, <span class="at">h =</span> <span class="st">"3 years"</span>)</span>
 <span id="cb4-28"><a href="#cb4-28" aria-hidden="true" tabindex="-1"></a><span class="fu">autoplot</span>(forecast_4, <span class="at">data=</span>spinal, <span class="at">level=</span><span class="fu">c</span>(<span class="dv">80</span>,<span class="dv">95</span>)) <span class="sc">+</span></span>
@@ -522,9 +533,12 @@ code span.wa { color: #60a0b0; font-weight: bold; font-style: italic; } /* Warni
 <span id="cb4-36"><a href="#cb4-36" aria-hidden="true" tabindex="-1"></a>arima_mean <span class="ot">&lt;-</span> <span class="fu">mean</span>(arima_means<span class="sc">$</span>.mean)</span>
 <span id="cb4-37"><a href="#cb4-37" aria-hidden="true" tabindex="-1"></a>ets_means <span class="ot">&lt;-</span> forecast_4 <span class="sc">%&gt;%</span> <span class="fu">filter</span>(.model<span class="sc">==</span><span class="st">'ets'</span>)</span>
 <span id="cb4-38"><a href="#cb4-38" aria-hidden="true" tabindex="-1"></a>ets_mean <span class="ot">&lt;-</span> <span class="fu">mean</span>(ets_means<span class="sc">$</span>.mean)</span>
-<span id="cb4-39"><a href="#cb4-39" aria-hidden="true" tabindex="-1"></a>snaive_means <span class="ot">&lt;-</span> forecast_4 <span class="sc">%&gt;%</span> <span class="fu">filter</span>(.model<span class="sc">==</span><span class="st">'snaive'</span>)</span>
-<span id="cb4-40"><a href="#cb4-40" aria-hidden="true" tabindex="-1"></a>snaive_mean <span class="ot">&lt;-</span> <span class="fu">mean</span>(snaive_means<span class="sc">$</span>.mean)</span>
-<span id="cb4-41"><a href="#cb4-41" aria-hidden="true" tabindex="-1"></a>print_mean_4 <span class="ot">&lt;-</span> <span class="fu">mean</span>(<span class="fu">c</span>(snaive_mean, ets_mean, arima_mean)) <span class="sc">|&gt;</span> <span class="fu">round</span>(<span class="dv">2</span>)</span></code><button title="Copy to Clipboard" class="code-copy-button"><i class="bi"></i></button></pre></div>
+<span id="cb4-39"><a href="#cb4-39" aria-hidden="true" tabindex="-1"></a>prophet_means <span class="ot">&lt;-</span> forecast_4 <span class="sc">%&gt;%</span> </span>
+<span id="cb4-40"><a href="#cb4-40" aria-hidden="true" tabindex="-1"></a>  <span class="fu">filter</span>(.model<span class="sc">==</span><span class="st">'prophet'</span>)</span>
+<span id="cb4-41"><a href="#cb4-41" aria-hidden="true" tabindex="-1"></a>prophet_mean <span class="ot">&lt;-</span> <span class="fu">mean</span>(prophet_means<span class="sc">$</span>.mean)</span>
+<span id="cb4-42"><a href="#cb4-42" aria-hidden="true" tabindex="-1"></a>print_mean_4 <span class="ot">&lt;-</span> <span class="fu">mean</span>(<span class="fu">c</span>(ets_mean, </span>
+<span id="cb4-43"><a href="#cb4-43" aria-hidden="true" tabindex="-1"></a>                       arima_mean,</span>
+<span id="cb4-44"><a href="#cb4-44" aria-hidden="true" tabindex="-1"></a>                       prophet_mean)) <span class="sc">|&gt;</span> <span class="fu">round</span>(<span class="dv">2</span>)</span></code><button title="Copy to Clipboard" class="code-copy-button"><i class="bi"></i></button></pre></div>
 </details>
 <div class="cell column-screen-inset-shaded quarto-layout-panel">
 <div class="quarto-layout-row quarto-layout-valign-top">
@@ -537,7 +551,7 @@ code span.wa { color: #60a0b0; font-weight: bold; font-style: italic; } /* Warni
 </div>
 </div>
 </div>
-<p>A forecast based on the percentage of patients discharged from Wythenshawe who had a Spinal Anaesthetic over the period 2011 - 2022. This suggests an expected mean percentage Spinal recipients (simple average of 3 model estimates of %Spinal) of 47.48%.</p>
+<p>A forecast based on the percentage of patients discharged from Wythenshawe who had a Spinal Anaesthetic over the period 2011 - 2022. This suggests an expected mean percentage Spinal recipients (simple average of 3 model estimates of %Spinal) of 47.59%.</p>
 </section>
 </section>
 <section id="outcome-measures" class="level2">
